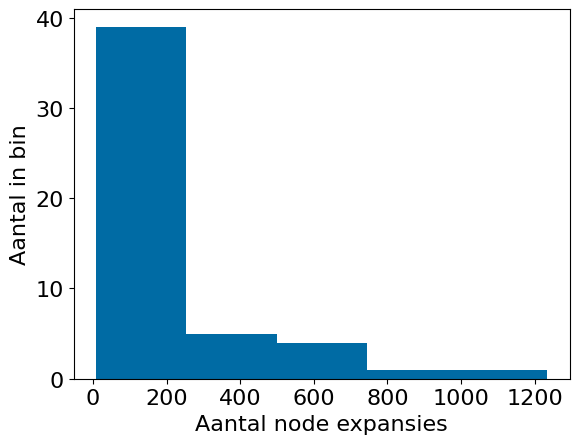
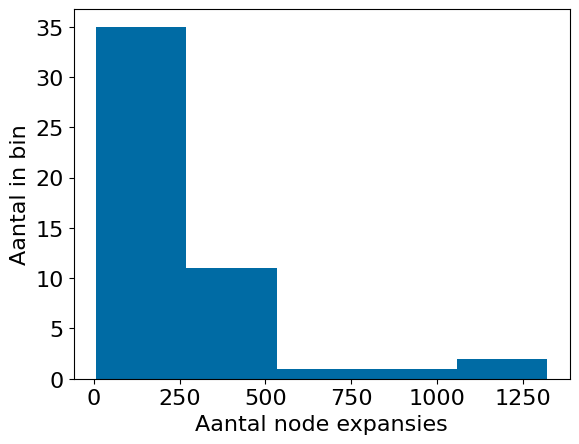
lineaire regressie

diff --git a/gravity_pressure.py b/gravity_pressure.py
@@ -7,7 +7,7 @@ import sklearn
 import sklearn.model_selection
 import sklearn.linear_model
 from queue import PriorityQueue
-
+import time
 random.seed(42)
 
 def remove_doubles2(route_list):
@@ -136,13 +136,15 @@ def gravity_pressure(id1, id2, graph, distance_function=cf.euclid_distance, rati
 
 def add_amount_of_visited_weights(graph, number_of_landmarks):
 
-    landmarks = random.choices(list(graph.nodes()), k=3*number_of_landmarks//4)
-    print(landmarks)
+    landmarks_tot = random.sample(list(graph.nodes()), number_of_landmarks) # without repetition
+
+    landmarks1 = landmarks_tot[:len(landmarks_tot)//2]
+    landmarks2 = landmarks_tot[len(landmarks_tot)//2:]
     path_list = list()
     
     for u, v in graph.edges():
         graph[u][v]['amount_travelled'] = 1
-    for landmark in landmarks:
+    for landmark in landmarks1:
         distances, paths = nx.single_source_dijkstra(graph, landmark, weight='travel_time')
         for value in paths.values():
             for x in range(len(value)-1): # -1 cause we can't count too for out of the list range
@@ -152,9 +154,10 @@ def add_amount_of_visited_weights(graph, number_of_landmarks):
 
     x_list, y_list = list(), list()
 
-    landmarks = random.choices(list(graph.nodes()), k=number_of_landmarks//4) # new landmarks else amount of times visited makes no sense
+    landmarks = random.choices(list(graph.nodes()), k= 2 * number_of_landmarks//4) # new landmarks else amount of times visited makes no sense
     print(landmarks)
-    for landmark in landmarks: 
+    
+    for landmark in landmarks2: 
         distances, paths = nx.single_source_dijkstra(graph, landmark, weight='travel_time')
         for value in paths.values():
 
@@ -164,10 +167,11 @@ def add_amount_of_visited_weights(graph, number_of_landmarks):
                 euclid_distance = cf.euclid_distance(value[x+1], value[-1], graph)
 
                 amount_travelled = graph[value[x]][value[x+1]]['amount_travelled']
-                #x_list.append([np.log(amount_travelled), np.log(1 + euclid_distance), graph[value[x]][value[x+1]]['travel_time']])
-                x_list.append([amount_travelled, euclid_distance, graph[value[x]][value[x+1]]['travel_time'], euclid_distance-previous, 1/amount_travelled, 1/(0.1 + euclid_distance), 1 / graph[value[x]][value[x+1]]['travel_time']])
+
+                x_list.append(np.array([amount_travelled, euclid_distance, graph[value[x]][value[x+1]]['travel_time'], euclid_distance-previous, 1/amount_travelled, 1/(0.1 + euclid_distance), 1 / graph[value[x]][value[x+1]]['travel_time']]))
+                # x_list.append([amount_travelled, euclid_distance, graph[value[x]][value[x+1]]['travel_time'], euclid_distance-previous])
                 # eucldian distance between the destination and the neighbor node we are actually going to
-                y_list.append(1)
+                y_list.append(1 + 5 * distances[value[x+1]]/distances[value[-1]]) # used to be just one
                 
                 neighbors = list(graph.neighbors(value[x]))
                 neighbors.remove(value[x+1])
@@ -177,19 +181,19 @@ def add_amount_of_visited_weights(graph, number_of_landmarks):
                     amount_travelled = graph[value[x]][chosen_neighbor]['amount_travelled']
                     euclid_distance = cf.euclid_distance(chosen_neighbor, value[-1], graph)
 
-                    # x_list.append([np.log(amount_travelled), np.log(1 + euclid_distance), graph[value[x]][chosen_neighbor]['travel_time']])
-                    x_list.append([amount_travelled,  euclid_distance, graph[value[x]][chosen_neighbor]['travel_time'], euclid_distance-previous, 1/amount_travelled, 1/(0.1+euclid_distance), 1 / graph[value[x]][chosen_neighbor]['travel_time']])
+                    x_list.append(np.array([amount_travelled,  euclid_distance, graph[value[x]][chosen_neighbor]['travel_time'], euclid_distance-previous, 1/amount_travelled, 1/(0.1+euclid_distance), 1 / graph[value[x]][chosen_neighbor]['travel_time']]))
+                    #x_list.append([amount_travelled,  euclid_distance, graph[value[x]][chosen_neighbor]['travel_time'], euclid_distance-previous])
                     y_list.append(0)
 
     x_train, x_test, y_train, y_test = sklearn.model_selection.train_test_split(x_list, y_list, test_size=0.25, random_state=42, shuffle=True)
 
-    scaler = sklearn.preprocessing.StandardScaler()
-    x_train = scaler.fit_transform(x_train)
-    x_test = scaler.transform(x_test)
+    scaler = sklearn.preprocessing.StandardScaler(copy=False)
+    #x_train = scaler.fit_transform(x_train)
+    #x_test = scaler.transform(x_test)
     
-    logistic_regression = sklearn.linear_model.LogisticRegression(random_state=42)
+    linear_regression = sklearn.linear_model.LinearRegression()
 
-    clf = logistic_regression.fit(x_train, y_train)
+    clf = linear_regression.fit(x_train, y_train)
 
     print(clf.score(x_train, y_train))
     print(clf.score(x_test, y_test))
@@ -202,7 +206,7 @@ def add_amount_of_visited_weights(graph, number_of_landmarks):
 
 def output_function(weights, vals):
 
-    return np.sum(weights*vals)
+    return np.sum(weights * vals)
                 
     
 def weighted_function(weight_difference_distance, distance, amount_travelled):
@@ -488,16 +492,24 @@ def priority_queue_new_evaluation_function(id1, id2, graph, weight_function, sca
 
             if tentative_g_score < g_score[neighbor_node]:
                 came_from[neighbor_node] = current_node
-                g_score[neighbor_node] = tentative_g_score # CHANGE TO MAX VEL
+                g_score[neighbor_node] = tentative_g_score 
                 
                 amount_travelled = graph[current_node][neighbor_node]['amount_travelled']
+                # start_time = time.time()
                 euclid_distance = cf.euclid_distance(neighbor_node, id2, graph)
+                # print(f'eulid distance time {time.time()-start_time}')
                 # amount_travelled,  euclid_distance, graph[value[x]][chosen_neighbor]['travel_time'], euclid_distance-previous, 1/amount_travelled, 1/(0.1+euclid_distance), 1 / graph[value[x]][chosen_neighbor]['travel_time']
-                
+
+                # start_time = time.time()
                 for_function = np.array([[amount_travelled,  euclid_distance, graph[current_node][neighbor_node]['travel_time'], euclid_distance-previous, 1/amount_travelled, 1/(0.1+euclid_distance), 1 / graph[current_node][neighbor_node]['travel_time']]])
-                for_function = scaler.transform(for_function)
-                
+                #print(f'array making time {time.time()-start_time}')
+                # for_function = np.array([[amount_travelled,  euclid_distance, graph[current_node][neighbor_node]['travel_time'], euclid_distance-previous]])
+                #start_time = time.time()
+                #for_function = scaler.transform(for_function)
+                #print(f'scaler doing time {time.time()-start_time}')
+                #start_time = time.time()
                 f_score[neighbor_node] = - output_function(weight_function.coef_, for_function) # expand lowest first
+                #print(f'output function doing time {time.time()-start_time}')
                 priority_queue.put((f_score[neighbor_node], neighbor_node))
 
         visited.add(current_node)

diff --git a/compare_node_expansion.py b/compare_node_expansion.py
@@ -155,7 +155,7 @@ def make_graphs_logistic(city, number_of_paths, number_of_landmarks):
     time_ML = 0
 
     average_vel = get_weigted_average_velocity(graph)
-    clf, scaler = gp.add_amount_of_visited_weights(graph, 20)
+    clf, scaler = gp.add_amount_of_visited_weights(graph, number_of_landmarks=number_of_landmarks)
     
     for i in range(len(start_nodes)):
         
@@ -186,7 +186,7 @@ def make_graphs_logistic(city, number_of_paths, number_of_landmarks):
     
     xvals_ML, average_stretch_ML, standard_dev_on_mean_stretchML = prepare_plot_errorbar(len_ML, weight_path,  binsize=150)                                    
     
-    plt.errorbar(xvals_ML, average_stretch_ML, yerr=standard_dev_on_mean_stretchML, linewidth=3,elinewidth=3, linestyle='-', capsize=5,barsabove=True, label='logistische regressie')
+    plt.errorbar(xvals_ML, average_stretch_ML, yerr=standard_dev_on_mean_stretchML, linewidth=3,elinewidth=3, linestyle='-', capsize=5,barsabove=True, label='ML')
     plt.legend()
     plt.savefig(f'./semester2/ML_files/rek_ML_{city}.png', bbox_inches="tight")
     plt.clf()
@@ -245,5 +245,7 @@ def prepare_plot_errorbar_logistic(computed_list, weight_path,  binsize):
     return xvals, average_stretch, standard_dev_on_mean_stretch
        
 # make_graphs_NN('Brugge', 50)
+name_list = ['New Dehli','Brugge','Nairobi', 'Rio de Janeiro', 'Manhattan']
 
-make_graphs_logistic('Nairobi', 50, 20)
+for name in name_list:
+    make_graphs_logistic(name, 50, 20)
